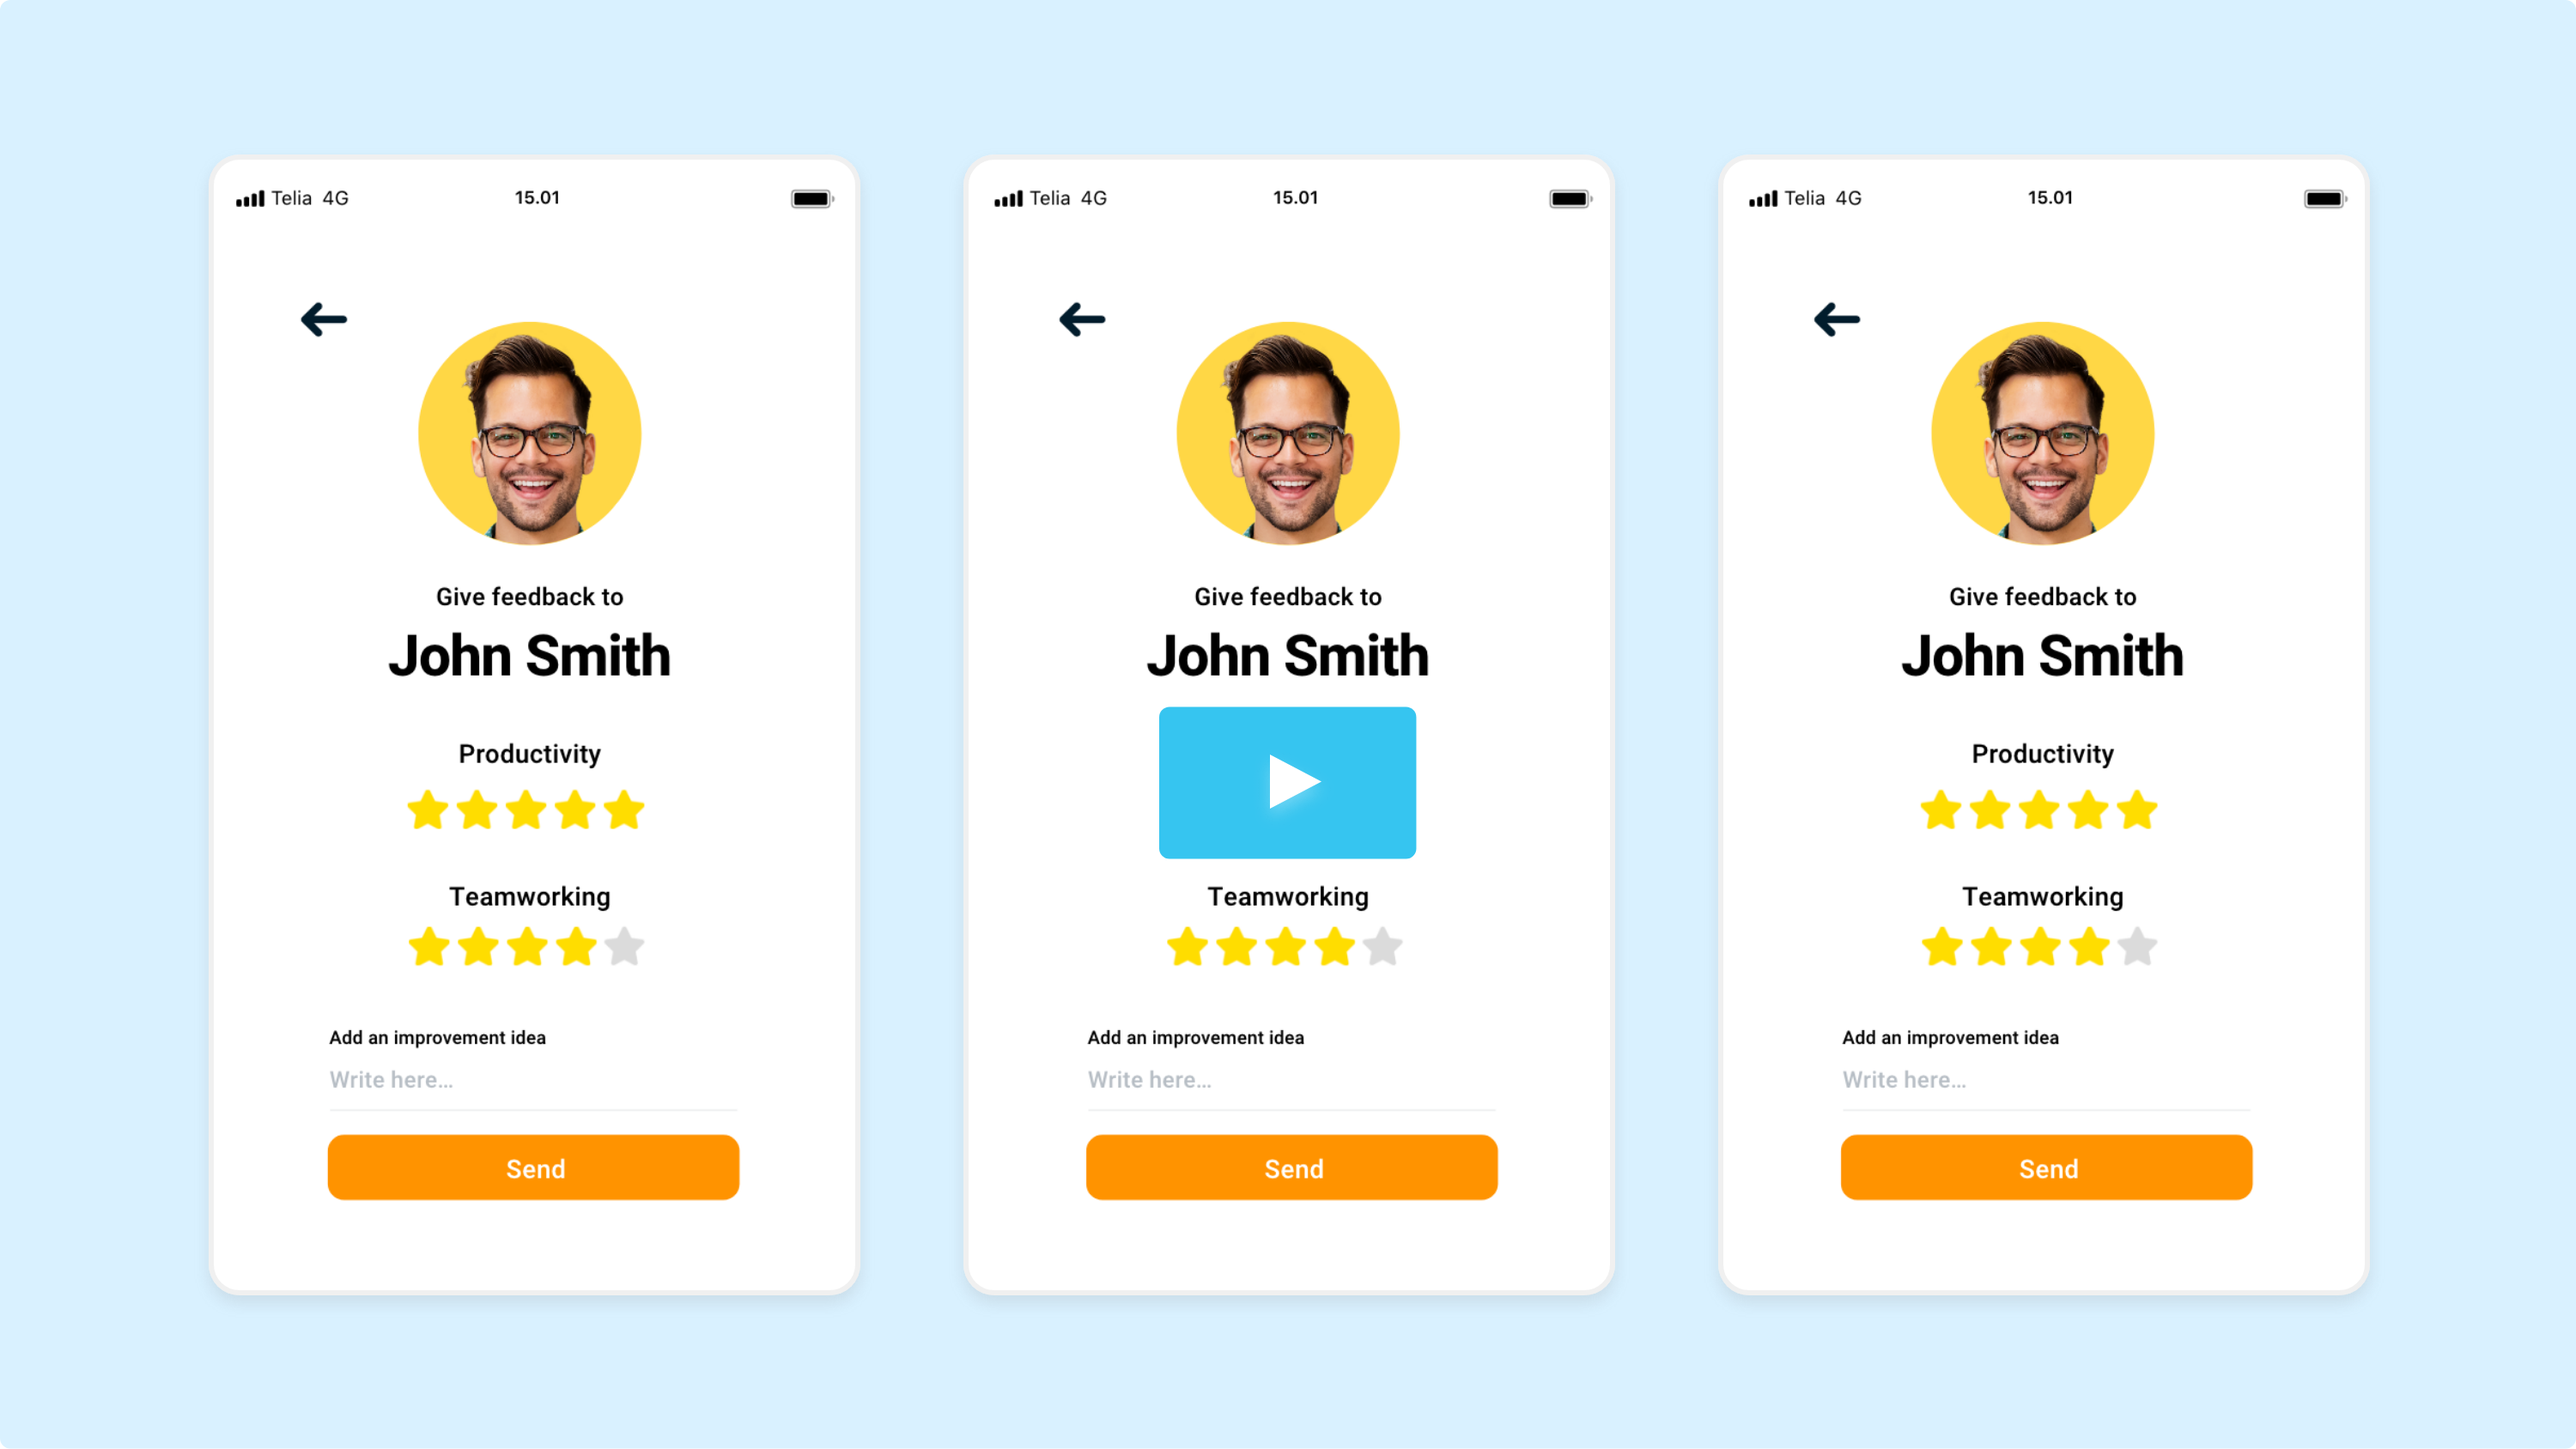
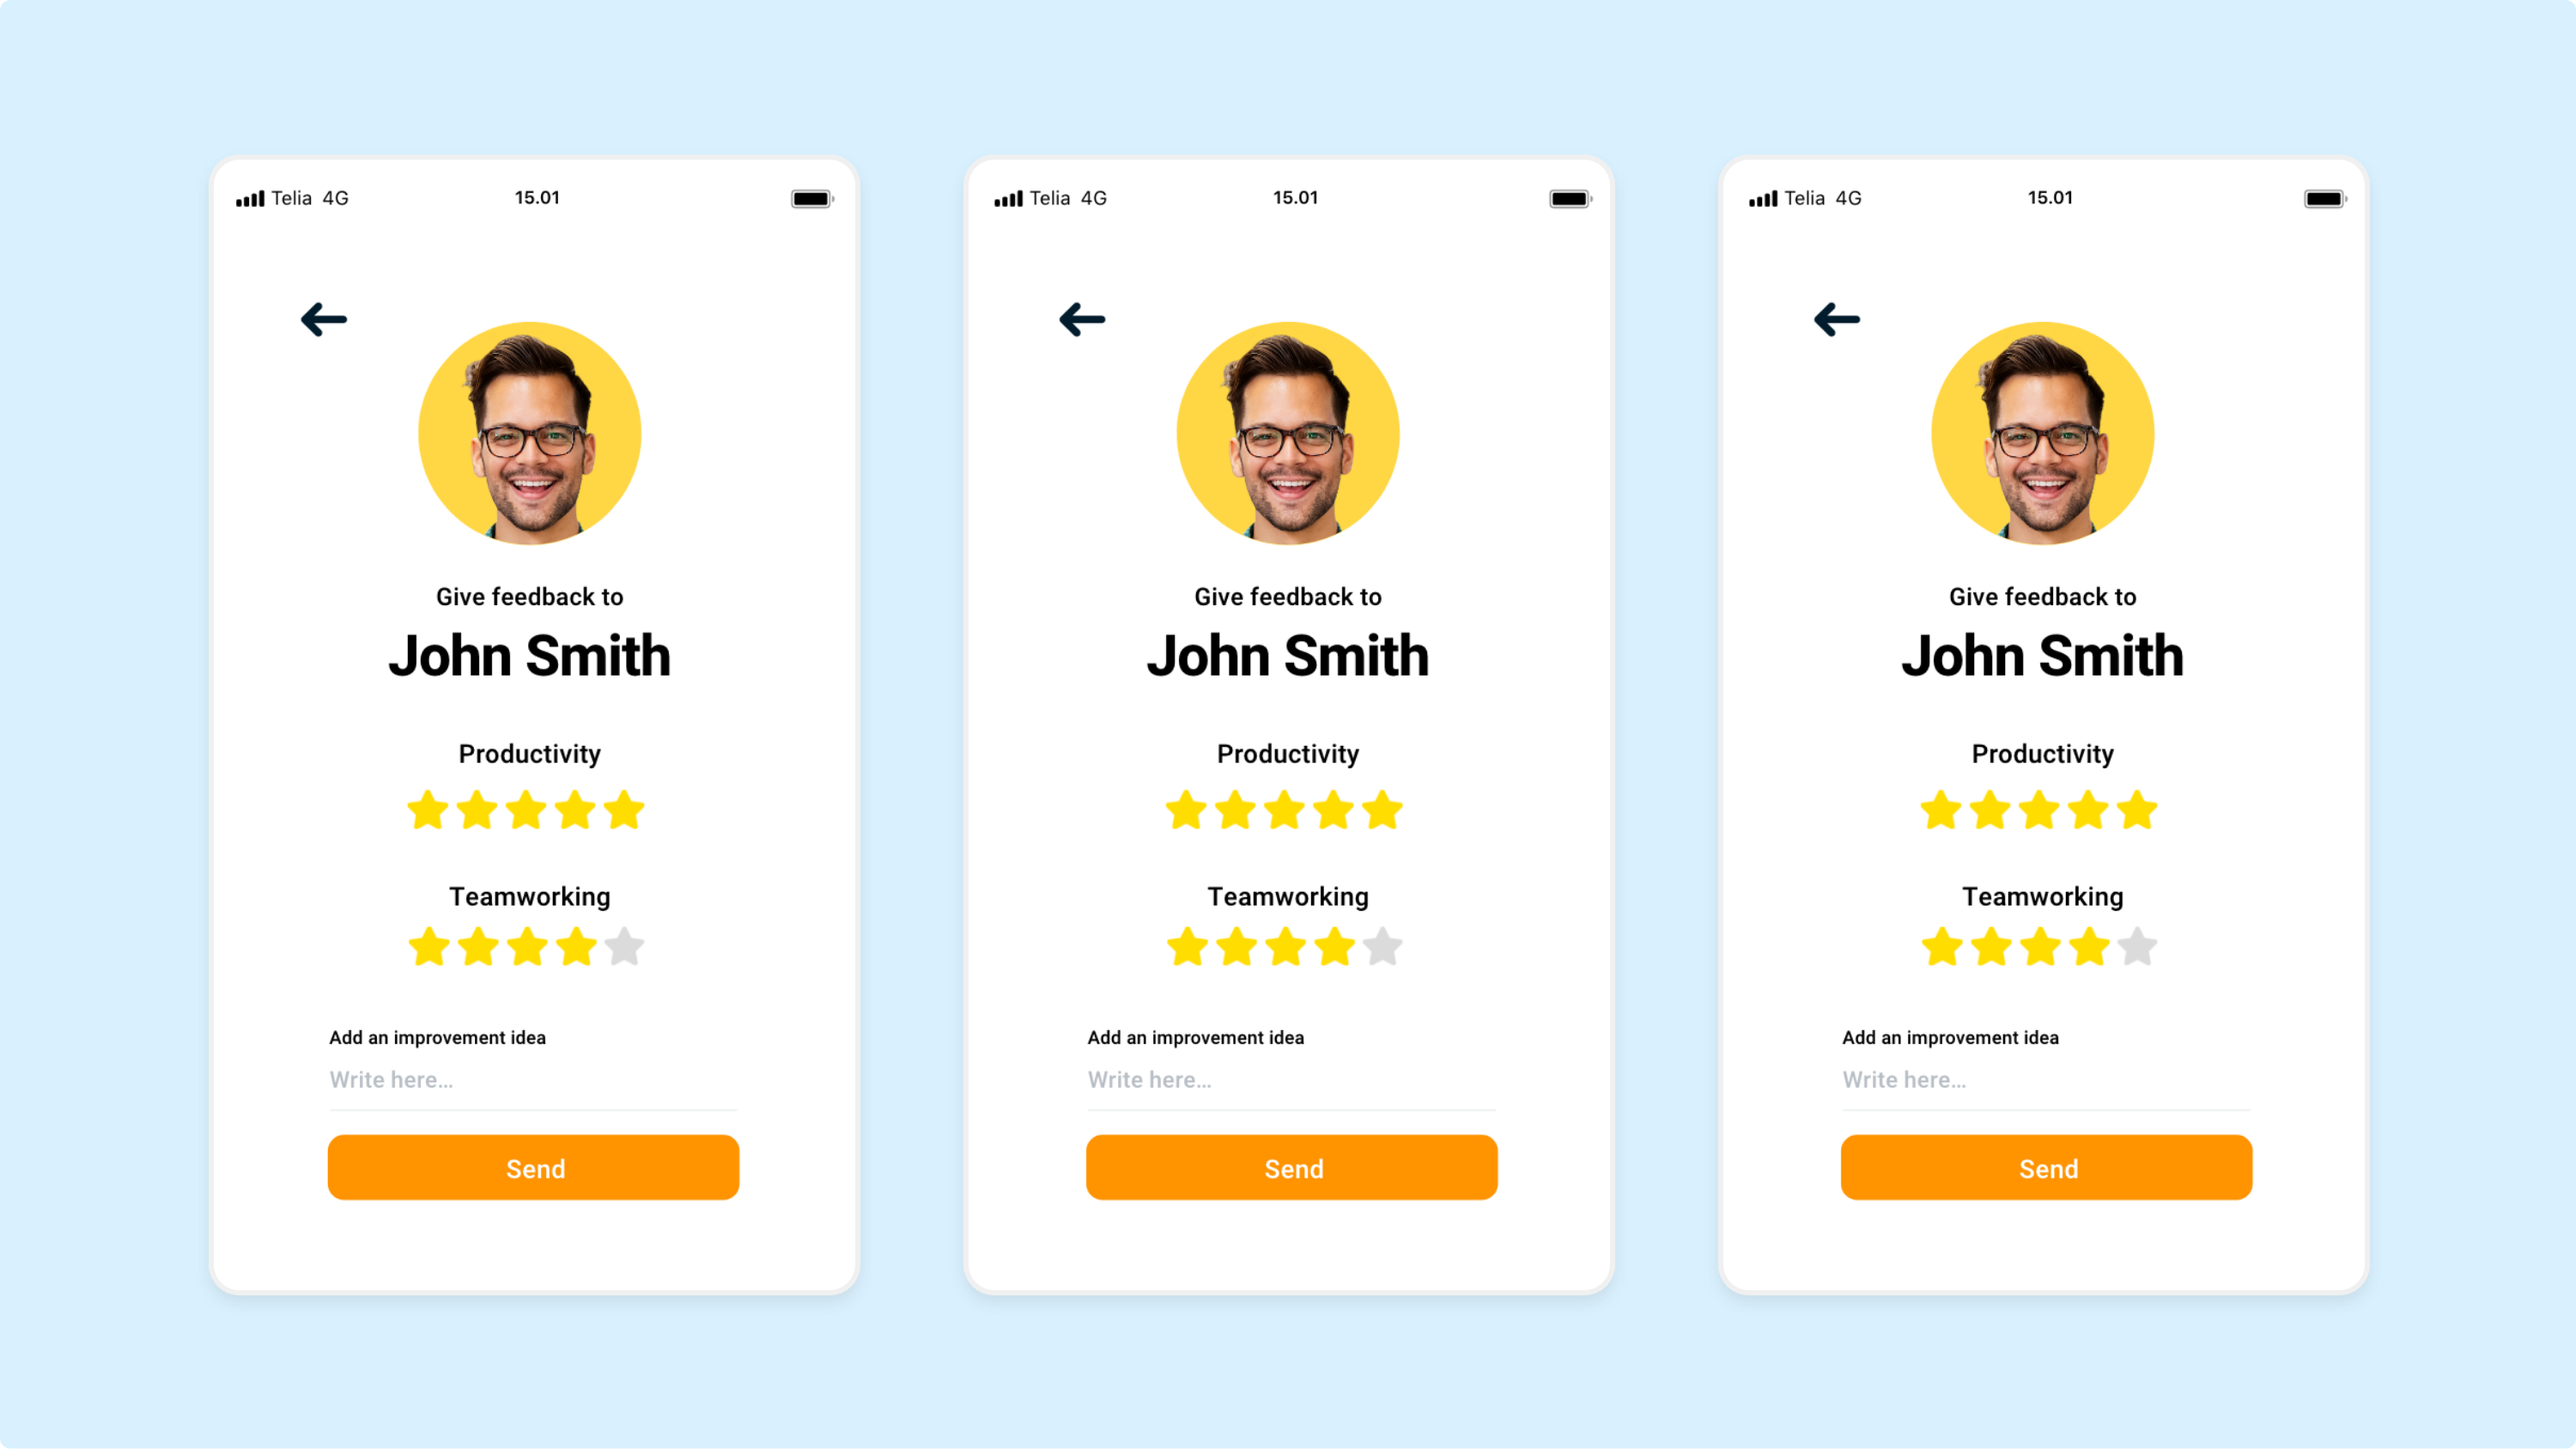
trello changes

Changed region(s): [[0.434, 0.4621, 0.558, 0.6161]]

diff --git a/index.html b/index.html
@@ -189,7 +189,10 @@
           Very simple, very easy and very efficient. 
           Watch the clip to get to know team feedback in two minutes.
         </p>
-        <img src="./public/img/o-02.png" alt="..." class="section-video-img">
+        <div class="section-video-media">
+          <img src="./public/img/o-02.png" alt="..." class="section-video-media-img">
+          <img src="./public/img/play-button.png" alt="Play button" class="section-video-media-play">
+        </div>
       </section>
 
       <div class="container activate-toc">
@@ -333,7 +336,7 @@
             If you like you can as well download the PDF product brochure.
           </p>
           <div class="section-explain-card-buttons">
-            <a href="#" class="btn btn-primary-outlined">Go to the feature page</a>
+            <a href="./features.html" class="btn btn-primary-outlined">Go to the feature page</a>
             <a href="#" class="btn btn-primary-outlined">Download PDF product brochure</a>
           </div>
         </div>
@@ -392,13 +395,13 @@
             <p class="footer-main-list-item-title">Navigation</p>
           </li>
           <li class="footer-main-list-item">
-            <a href="#" class="footer-main-list-item-link">Overview</a>
+            <a href="./index.html" class="footer-main-list-item-link">Overview</a>
           </li>
           <li class="footer-main-list-item">
-            <a href="#" class="footer-main-list-item-link">Features</a>
+            <a href="./features.html" class="footer-main-list-item-link">Features</a>
           </li>
           <li class="footer-main-list-item">
-            <a href="#" class="footer-main-list-item-link">Pricing</a>
+            <a href="./pricing.html" class="footer-main-list-item-link">Pricing</a>
           </li>
           <li class="footer-main-list-item">
             <a href="#" class="footer-main-list-item-link">Support</a>
@@ -413,19 +416,19 @@
             <p class="footer-main-list-item-title">Features</p>
           </li>
           <li class="footer-main-list-item">
-            <a href="#" class="footer-main-list-item-link">Give feedback</a>
+            <a href="./features.html#giving-feedback" class="footer-main-list-item-link">Give feedback</a>
           </li>
           <li class="footer-main-list-item">
-            <a href="#" class="footer-main-list-item-link">Receive feedback</a>
+            <a href="./features.html#receiving-feedback" class="footer-main-list-item-link">Receive feedback</a>
           </li>
           <li class="footer-main-list-item">
-            <a href="#" class="footer-main-list-item-link">Follow employees</a>
+            <a href="./features.html#developing-teams" class="footer-main-list-item-link">Develop teams</a>
           </li>
           <li class="footer-main-list-item">
-            <a href="#" class="footer-main-list-item-link">Follow teams</a>
+            <a href="./features.html#the-dashboard" class="footer-main-list-item-link">The dashboard</a>
           </li>
           <li class="footer-main-list-item">
-            <a href="#" class="footer-main-list-item-link">Team leader dashboard</a>
+            <a href="./features.html#pdf-reports" class="footer-main-list-item-link">PDF reports</a>
           </li>
         </ul>
 

diff --git a/public/css/style.css b/public/css/style.css
@@ -636,13 +636,24 @@ body {
         font-size: 1.6rem;
         line-height: 1.63;
         color: #000000; } }
-  .section-video-img {
-    width: 100%;
-    min-width: 0;
-    max-width: 100rem; }
-    @media (max-width: 991px) {
-      .section-video-img {
-        max-width: 68rem; } }
+  .section-video-media {
+    position: relative; }
+    .section-video-media-img {
+      width: 100%;
+      min-width: 0;
+      max-width: 100rem; }
+      @media (max-width: 991px) {
+        .section-video-media-img {
+          max-width: 68rem; } }
+    .section-video-media-play {
+      position: absolute;
+      top: 50%;
+      left: 50%;
+      transform: translate(-50%, -50%);
+      cursor: pointer;
+      transition: all .2s ease-in-out; }
+      .section-video-media-play:hover, .section-video-media-play:focus {
+        transform: translate(-50%, -50%) scale(1.1); }
 
 .main-overview .table-of-content-wrapper {
   max-width: 100vw;
@@ -2157,6 +2168,10 @@ body {
         @media (max-width: 991px) {
           .section-team-main-card-position {
             font-size: 1.5rem; } }
+
+.toc-hidden {
+  transform: translate(0, -100%) !important;
+  transition: all .2s ease-in-out; }
 
 .activate-toc {
   margin-bottom: 1.8rem; }

diff --git a/public/js/features-test.js b/public/js/features-test.js
@@ -223,19 +223,19 @@ window.addEventListener('scroll', function () {
         subheaderItem.offsetWidth / 2;
     }
 
-    if (window.scrollY >= getStartedCard.offsetTop - header.offsetHeight - 30) {
-      for (var i = 0; i < tocLinks.length; i++) {
-        tocLinks[i].classList.remove('active');
-      }
+    // if (window.scrollY >= getStartedCard.offsetTop - header.offsetHeight - 30) {
+    //   for (var i = 0; i < tocLinks.length; i++) {
+    //     tocLinks[i].classList.remove('active');
+    //   }
 
-      subheaderItem = document.querySelector('[href="#get-started"] p');
-      subheaderItem.classList.add('active');
+    //   subheaderItem = document.querySelector('[href="#get-started"] p');
+    //   subheaderItem.classList.add('active');
 
-      subheaderList.scrollLeft =
-        subheaderItem.offsetLeft -
-        subheaderList.offsetWidth / 2 +
-        subheaderItem.offsetWidth / 2;
-    }
+    //   subheaderList.scrollLeft =
+    //     subheaderItem.offsetLeft -
+    //     subheaderList.offsetWidth / 2 +
+    //     subheaderItem.offsetWidth / 2;
+    // }
     // if (window.scrollY >= hideToc.offsetTop - 150) {
     //   tableOfContent.classList.add('hide');
     //   console.log('HIDEN');

diff --git a/public/scss/style.scss b/public/scss/style.scss
@@ -1041,16 +1041,36 @@ body {
     }
   }
 
-  &-img {
+  &-media {
+    position: relative;
+
+    &-img {
     width: 100%;
     min-width: 0;
     max-width: 100rem;
 
-    //TABLET
-    @include respond(desktop-md) {
-      max-width: 68rem;
+      //TABLET
+      @include respond(desktop-md) {
+        max-width: 68rem;
+      }
+    }
+
+    &-play {
+      position: absolute;
+      top: 50%;
+      left: 50%;
+      transform: translate(-50%, -50%);
+      cursor: pointer;
+      transition: all .2s ease-in-out;
+
+      &:hover,
+      &:focus {
+        transform: translate(-50%, -50%) scale(1.1);
+      }
     }
   }
+
+  
 }
 
 
@@ -3304,6 +3324,11 @@ body {
 //=========================================================================================================================================
 //                                                           ADDITIONAL CLASSES
 //=========================================================================================================================================
+
+.toc-hidden {
+  transform: translate(0, -100%)!important;
+  transition: all .2s ease-in-out;
+}
 
 .activate-toc {
   margin-bottom: 1.8rem;

diff --git a/features.html b/features.html
@@ -216,7 +216,7 @@
      </div>
 
      <!-- HEADING SECTION -->
-     <section class="section section-heading heading-01 container">
+     <section class="section section-heading heading-01 container" id="giving-feedback">
        <h4 class="section-heading-subtitle f-b-subtitle">Giving feedback</h4>
        <h2 class="section-heading-title f-b-title">The new simple way <br class="show-md-block"> to give feedback.</h2>
        <p class="section-heading-text f-b-text hide-md">
@@ -291,7 +291,7 @@
     </div>
 
      <!-- HEADING SECTION -->
-     <section class="section section-heading heading-02 container">
+     <section class="section section-heading heading-02 container" id="receiving-feedback">
       <h4 class="section-heading-subtitle f-b-subtitle">Receive feedback</h4>
       <h2 class="section-heading-title f-b-title">The new simple way to <br class="show-md-block hide-xsm"> receive feedback.</h2>
       <p class="section-heading-text f-b-text hide-xsm">

diff --git a/public/js/main.js b/public/js/main.js
@@ -154,11 +154,10 @@ window.addEventListener('scroll', function () {
         document.querySelector('[href="#section-04"]').classList.add('active');
       }
     }
-    if (window.scrollY >= hideToc.offsetTop - 80) {
-      tableOfContent.classList.add('hide');
-      console.log('HIDEN');
+    if (window.scrollY >= hideToc.offsetTop - 150) {
+      tableOfContent.classList.add('toc-hidden');
     } else {
-      tableOfContent.classList.remove('hide');
+      tableOfContent.classList.remove('toc-hidden');
     }
   } else {
     header.style.top = '0';
